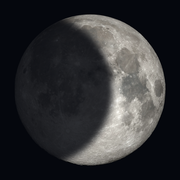
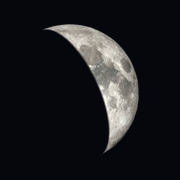
Site Google'a açıldı; yeni simge (arka plansız hilal)
allowIndexing: true (robots.txt izin veriyor, site haritası bildiriliyor).
Sekme ve arama sonucu simgesi: şeffaf arka planlı, eğik dolgun hilal.

diff --git a/apps/web/site.config.ts b/apps/web/site.config.ts
@@ -10,8 +10,8 @@ export const siteConfig = {
   url: "https://lunatlas.com",
   /** İletişim adresi. Domain alınınca Gmail'e yönlendirme kurulacak. */
   contactEmail: "iletisim@lunatlas.com",
-  /** Yayına alınana kadar false kalmalı: robots.txt tüm taramayı engeller. */
-  allowIndexing: false,
+  /** Arama motorlarına açık mı? false olursa robots.txt ve noindex tüm taramayı engeller. Yayında: 28 Ekim 2026. */
+  allowIndexing: true,
   locale: "tr-TR",
   /** Sitenin dilleri. Yeni dil, içeriği hazır olunca buraya eklenir (makine çevirisi yok, bkz. CLAUDE.md). */
   languages: [{ code: "tr", label: "Türkçe", home: "/tr" }],
